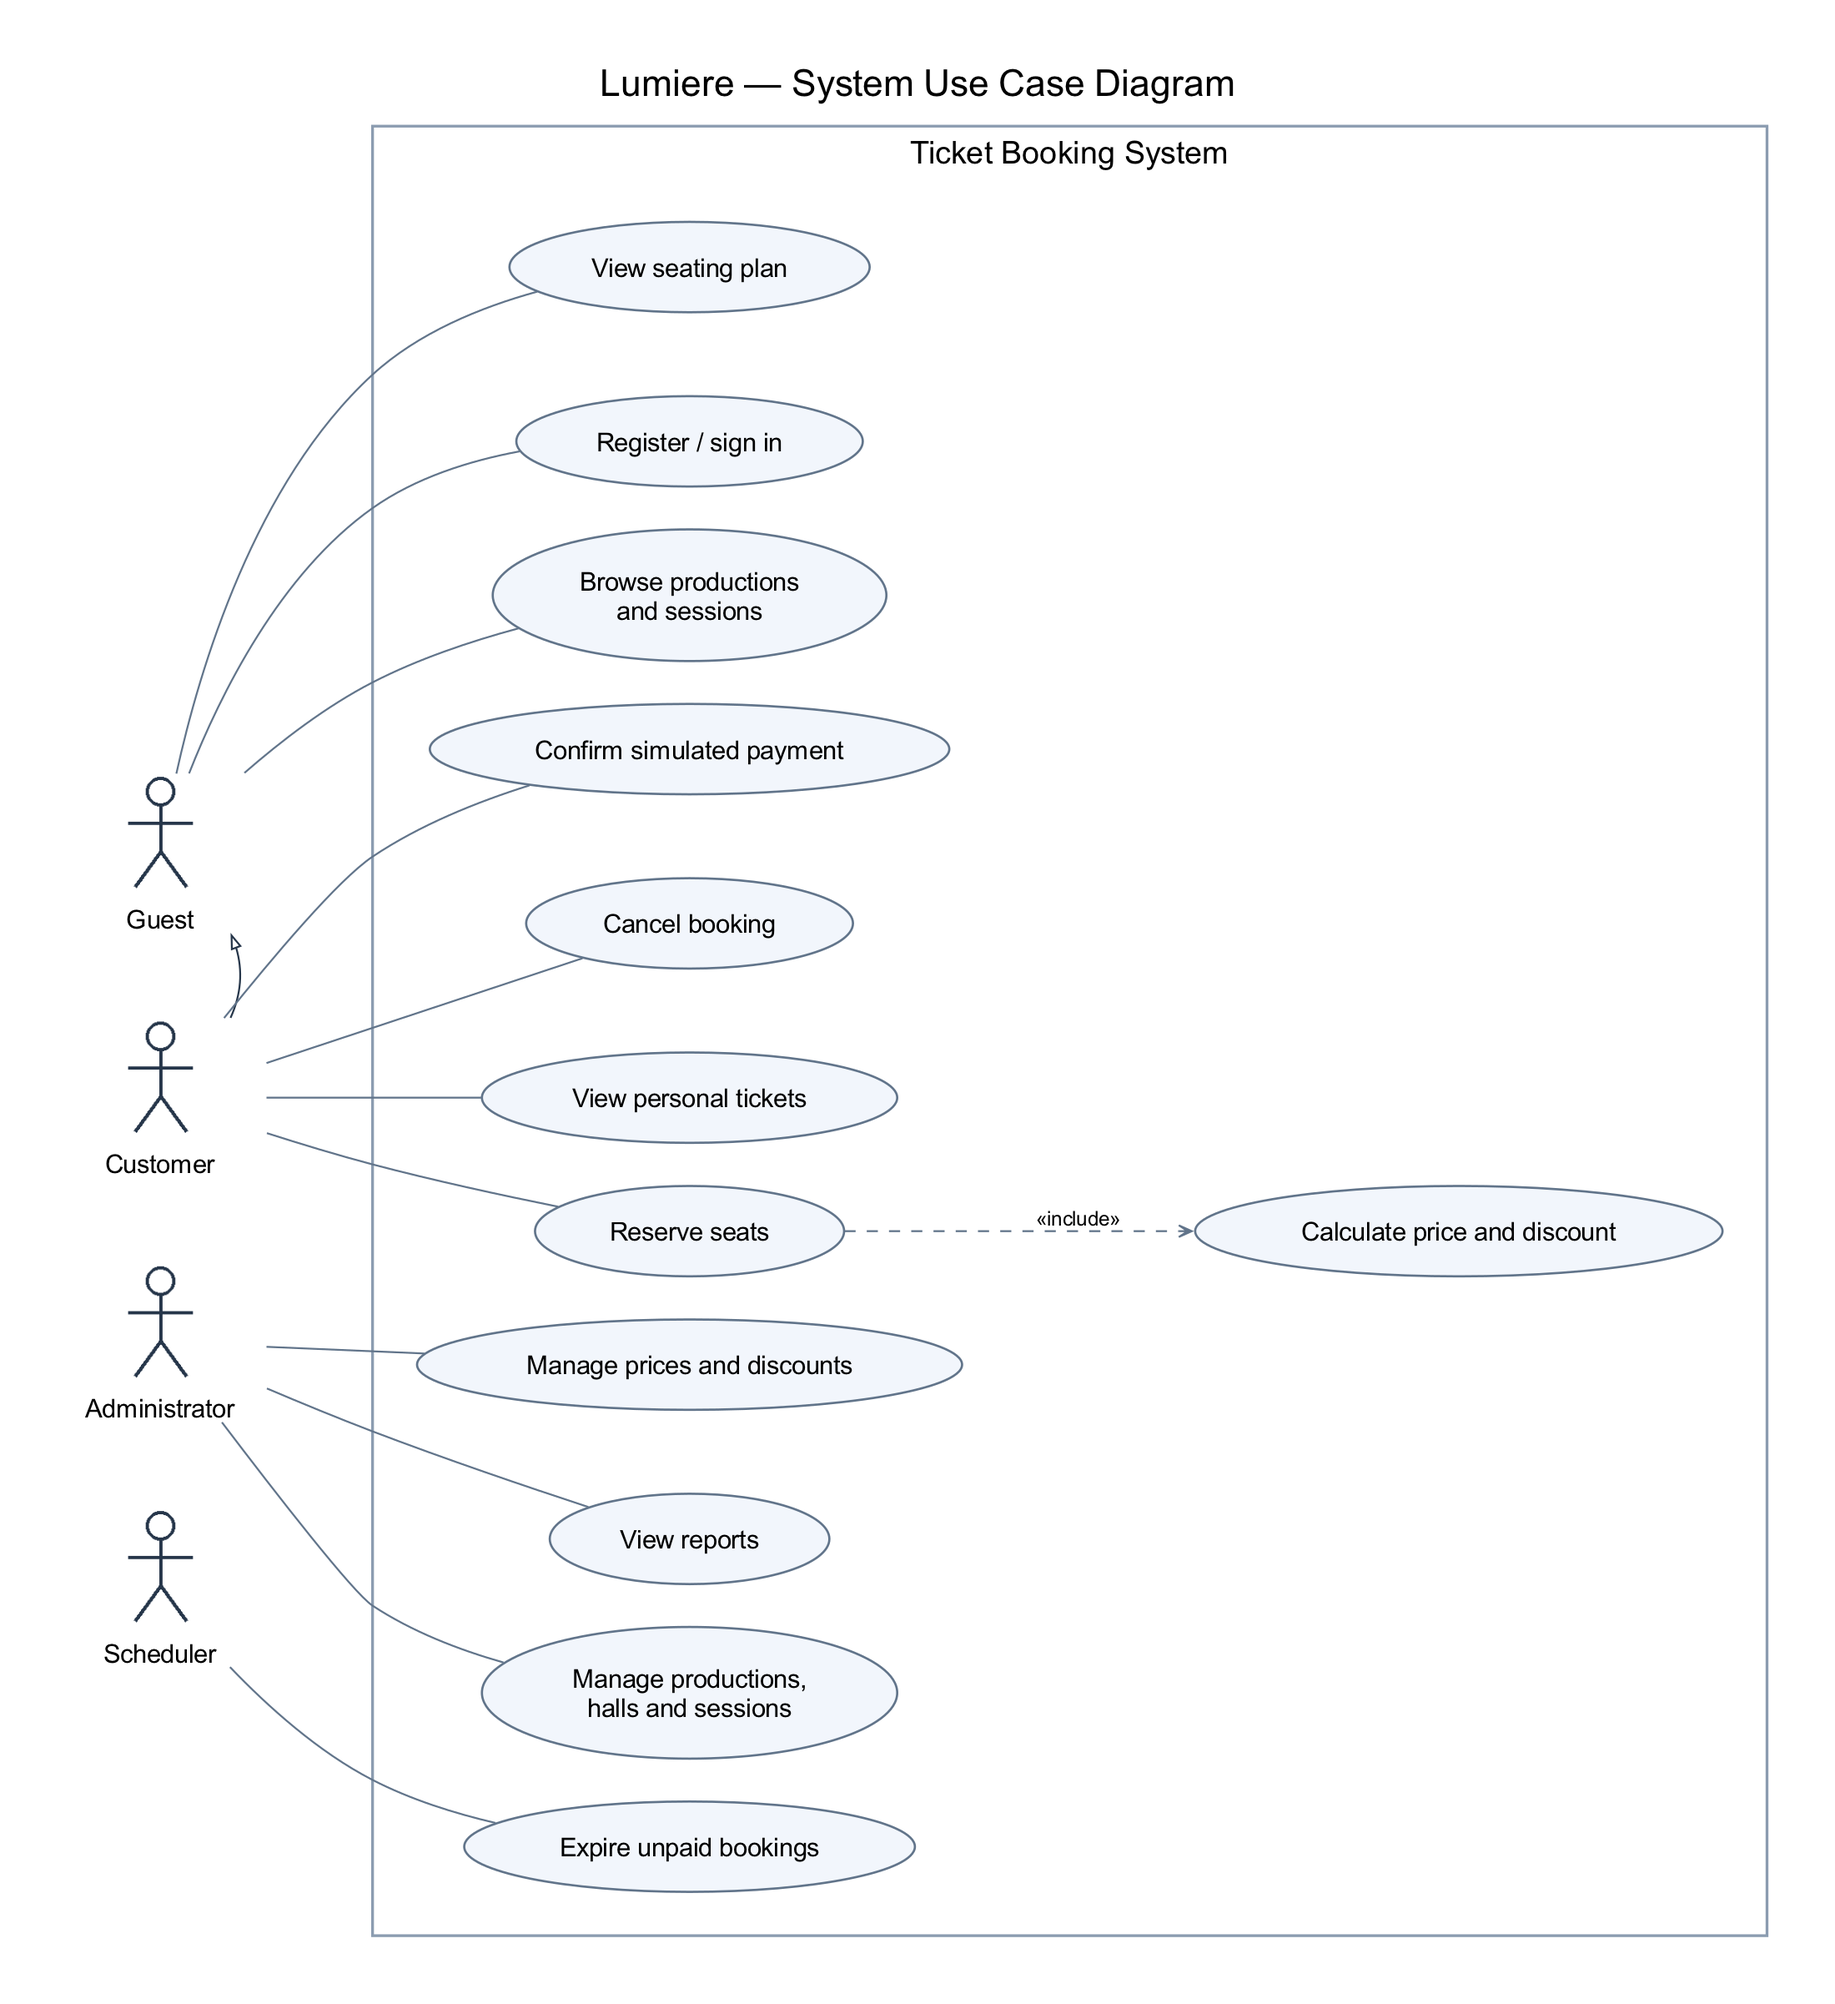
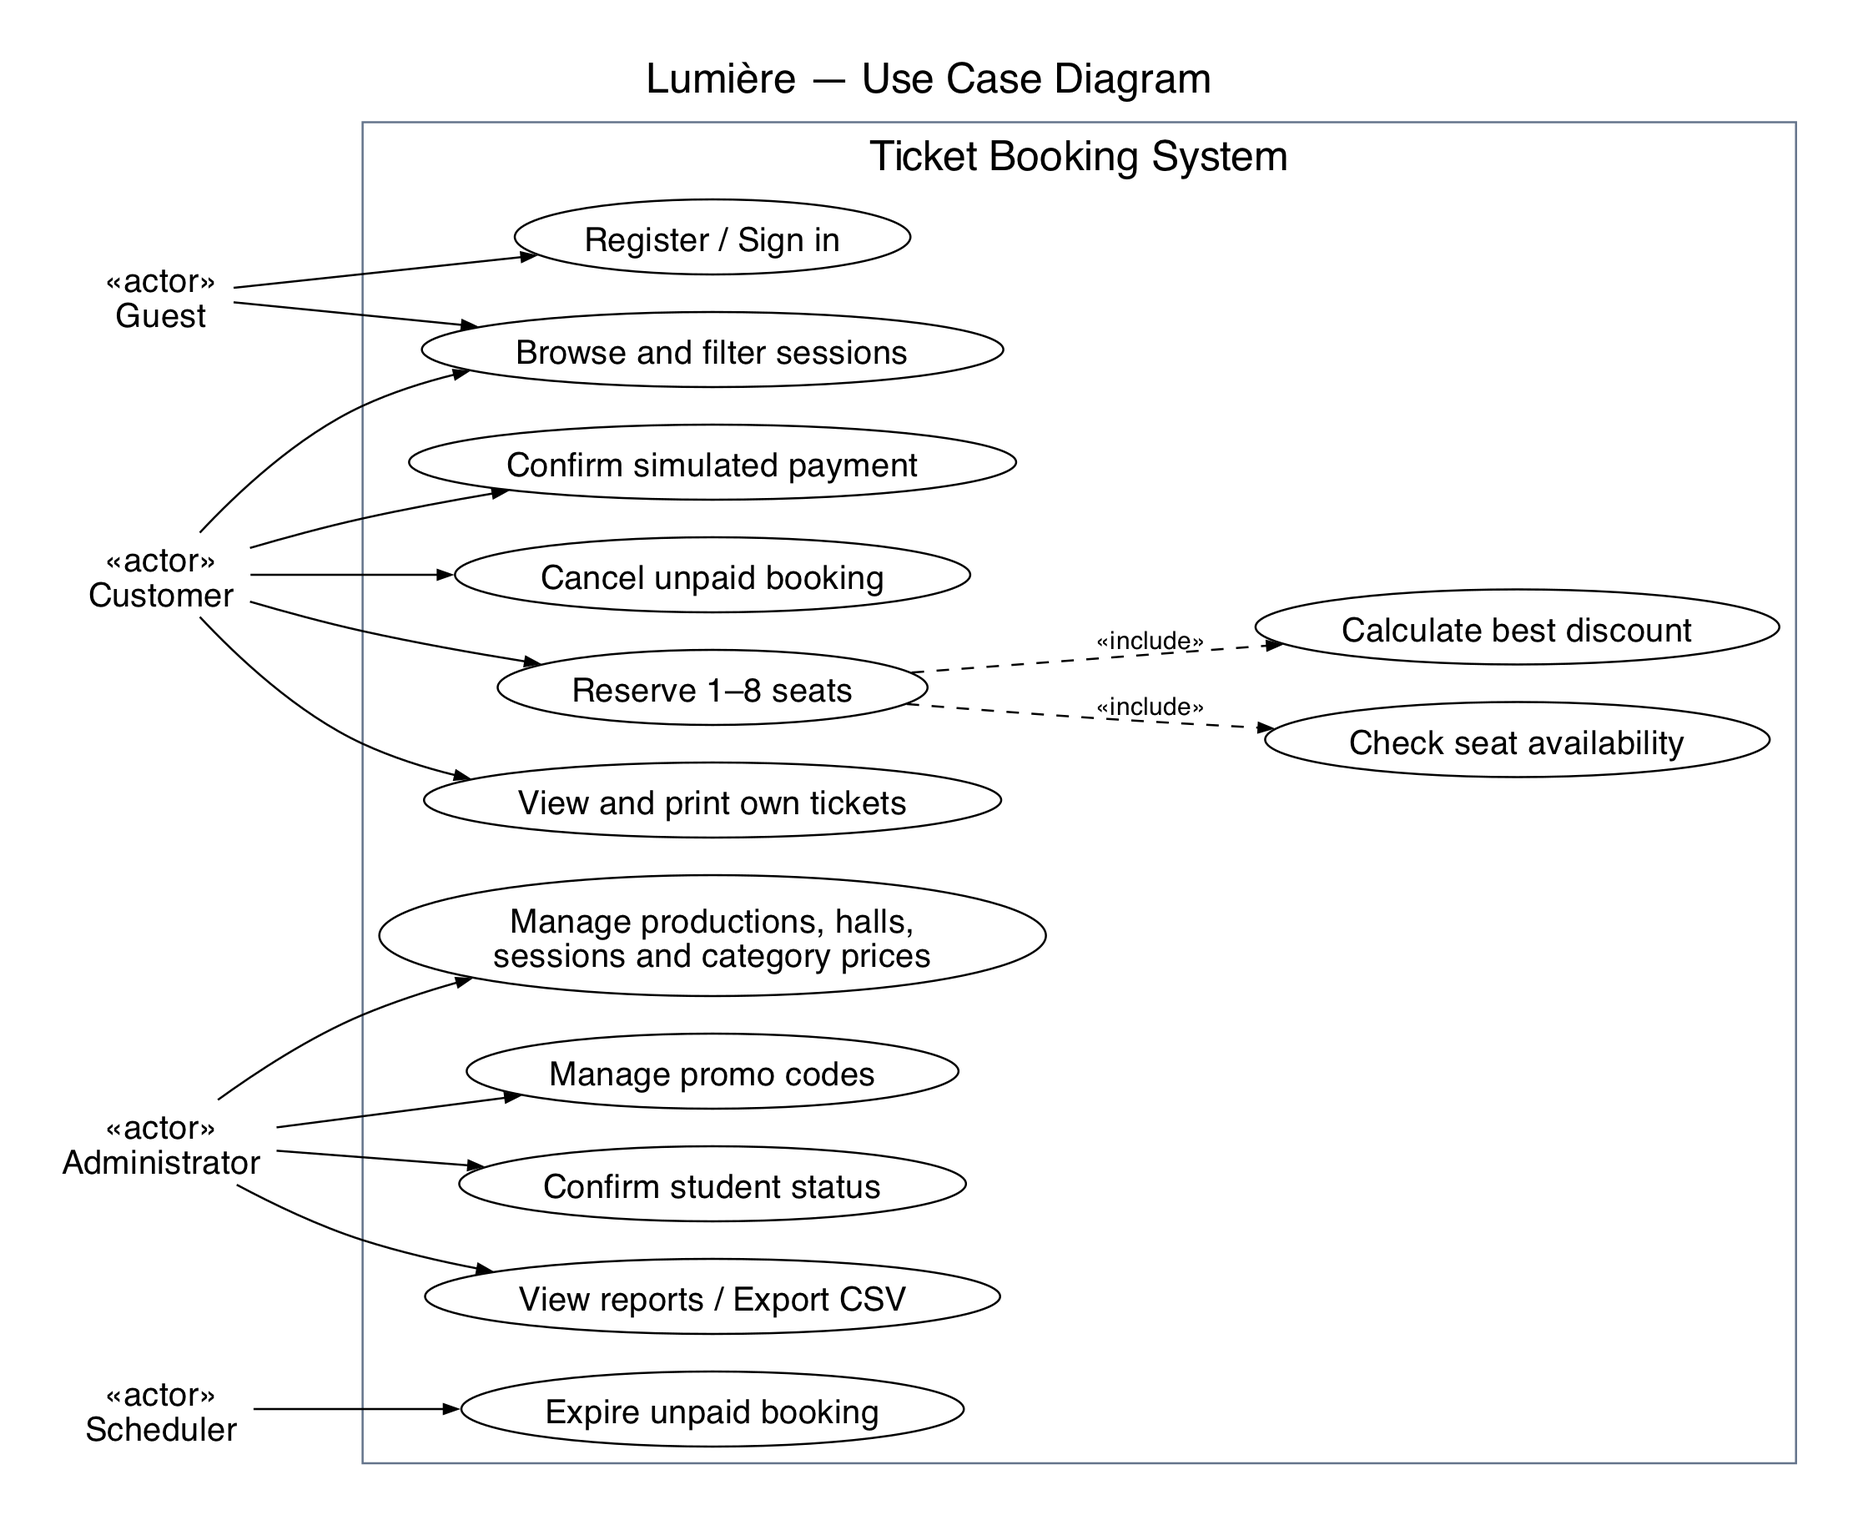
docs: align setup and UML diagrams with the final architecture

diff --git a/README.md b/README.md
@@ -1,7 +1,117 @@
-# Lumiere Theater and Cinema Ticket Booking
+# Lumière — Theater & Cinema Ticket Booking
 
-The client and server are independent npm packages with their own lockfiles.
-Run npm ci in each directory. From server run npm run db:local and npm run dev.
-From client run npm run dev in another terminal. Open http://127.0.0.1:5173.
-Database migrations are under server/database. Local database data and credentials
-remain under the ignored .local directory at the repository root.
+Coursework project 11. A React client and an Express REST API with PostgreSQL.
+The two applications are independent npm packages: no workspaces, root npm package,
+shared node_modules or common dependency lockfile.
+
+## Structure
+
+```text
+server/                 Independent TypeScript/Express application
+  src/controllers/       HTTP request and response handling
+  src/services/          Business logic and use cases
+  src/repositories/      ORM and PostgreSQL queries
+  src/models/            Table mappings and booking model
+  src/patterns/          Strategy, State and Observer
+  src/routes/            URL registration
+  src/middleware/        Validation, roles and request guards
+  src/config/            Database configuration and dependency setup
+  src/types/             Input and response types
+  scripts/               Local database helper
+  database/              Versioned SQL migrations and seed data
+  package.json
+  package-lock.json
+client/                Independent React/Vite application
+  src/features/          Authentication, catalog, tickets and administration
+  src/shared/            Reusable UI and HTTP client
+  package.json
+  package-lock.json
+```
+
+## Start the server
+
+Requires Node.js 22.12+ and PostgreSQL 14+ with btree_gist.
+Open a terminal in the repository and run:
+
+```sh
+cd server
+npm ci
+npm run db:local
+npm run dev
+```
+
+The API listens on http://127.0.0.1:3001. Readiness: /api/ready.
+The local helper preserves data in .local at the repository root and writes
+server/.env. Existing administrator credentials remain in .local/admin-login.txt.
+Use npm run db:stop from server to stop the local database.
+For a separately provisioned PostgreSQL database, configure server/.env and use
+npm run db:migrate, npm run db:seed and npm run admin:create from server.
+
+## Start the client
+
+Open a second terminal:
+
+```sh
+cd client
+npm ci
+npm run dev
+```
+
+Open http://127.0.0.1:5173. Vite forwards /api to the local server.
+Install client libraries only inside client and server libraries only inside
+server. Each application has its own node_modules and package-lock.json.
+
+## Features
+
+- Server-side title search, type/date filters and date/price sorting.
+- Numbered Standard, VIP and Balcony seats; prices per session.
+- Customer registration, sign-in/out and personal tickets.
+- Atomic reservations of 1–8 seats; cancellation and expiration release inventory.
+- Reservations last up to 15 minutes, bounded by the session start.
+- Best eligible discount: verified student 10% or a valid promo, without stacking.
+- Simulated payment, issued tickets and print view.
+- Separate administrator workflow for productions, halls, schedules, promos,
+  student status and reports; administrators cannot use customer booking routes.
+- Sales by period, session revenue, daily hall occupancy and CSV export.
+
+Payment is a coursework simulation. No money is charged; paid-ticket refunds are
+not implemented. Run npm run db:demo from server for additional fictional data.
+Fixtures preserve existing records and do not move dates on subsequent runs.
+
+## Architecture and persistence
+
+The server follows Controller → Service → Repository. Routes bind URLs to controller
+methods. Controllers validate HTTP input and return responses. Services implement
+business rules and call repositories. Repositories use typed Drizzle query builders for reads, writes and reports.
+PostgreSQL expressions handle date grouping and case folding; a transaction-scoped
+advisory lock remains an explicit database operation. Models describe table
+mappings; config connects dependencies. There are no separate domain/application
+or ports layers.
+Strategy calculates discounts, State controls booking transitions, and Observer
+publishes audit events after successful persistence. Audit delivery is in-process.
+SQL migrations own database constraints; do not use automatic ORM schema push.
+
+## Verify separately
+
+From server:
+
+```sh
+npm run check
+npm run build
+```
+
+From client:
+
+```sh
+npm run check
+npm run build
+```
+
+The production outputs are server/dist and client/dist. Production hosting
+requires API/domain, HTTPS, database and networking configuration; the checked-in
+Vite proxy is intended for local development.
+
+## Local files
+
+.env, .local, node_modules, build output and passwords are ignored by Git.
+The university report is a separate deliverable.
